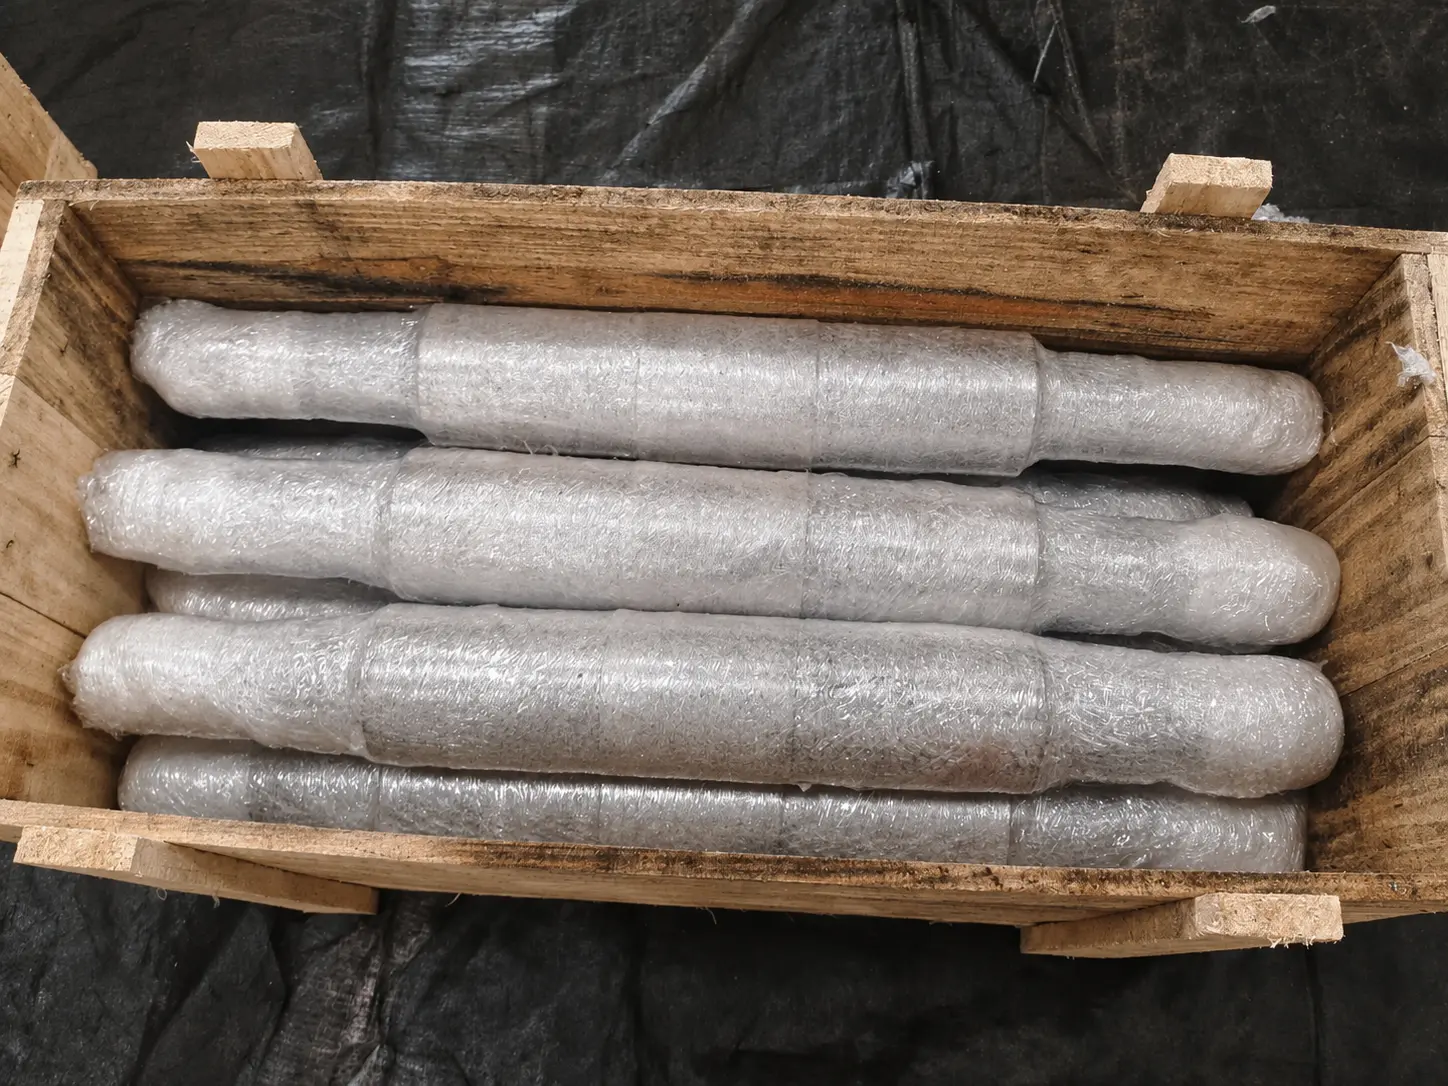
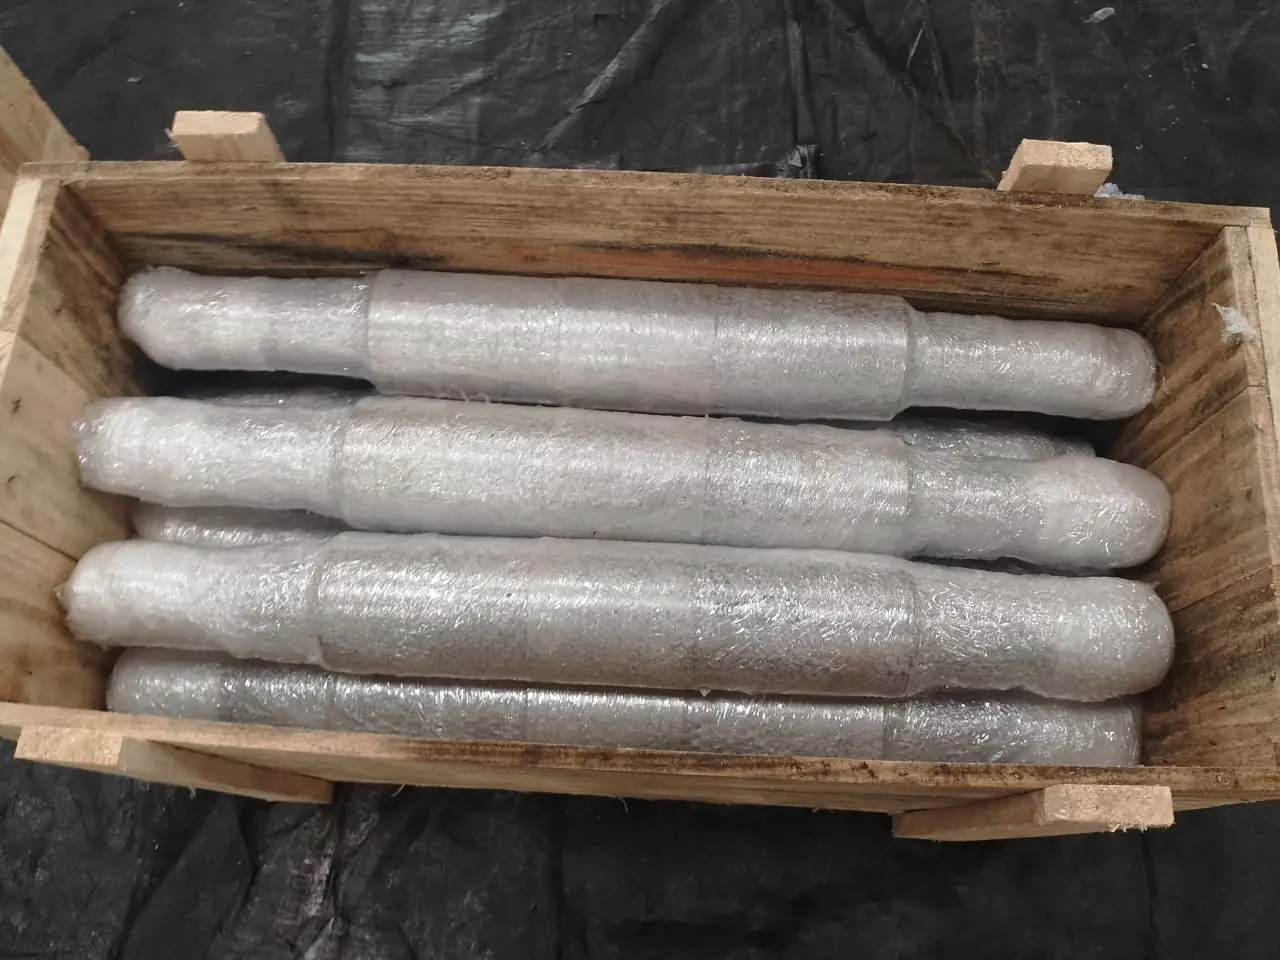
Add Daily Digit with rotating engineering facts

diff --git a/index.html b/index.html
@@ -126,6 +126,92 @@
         font-size: 14px;
         font-weight: 700;
       }
+      .nav-actions {
+        display: flex;
+        align-items: center;
+        gap: 16px;
+      }
+      .daily-digit {
+        position: relative;
+        flex: 0 0 auto;
+      }
+      .daily-digit-button {
+        display: grid;
+        grid-template-columns: auto auto;
+        grid-template-areas: "label number" "hint number";
+        column-gap: 9px;
+        align-items: center;
+        min-width: 105px;
+        min-height: 48px;
+        padding: 7px 10px;
+        border: 1px solid var(--accent);
+        background: #fffaf4;
+        color: var(--ink);
+        cursor: pointer;
+        font: inherit;
+        text-align: left;
+      }
+      .daily-digit-label {
+        grid-area: label;
+        color: var(--accent);
+        font-size: 9px;
+        font-weight: 800;
+        letter-spacing: 0.12em;
+        line-height: 1.1;
+      }
+      .daily-digit-hint {
+        grid-area: hint;
+        color: var(--muted);
+        font-size: 9px;
+        line-height: 1.1;
+      }
+      .daily-digit-number {
+        grid-area: number;
+        font-size: 28px;
+        font-weight: 800;
+        line-height: 1;
+        opacity: 0;
+        transform: translateY(4px);
+        transition: opacity 0.45s ease, transform 0.45s ease;
+      }
+      .daily-digit.ready .daily-digit-number {
+        opacity: 1;
+        transform: translateY(0);
+      }
+      .daily-digit-card {
+        position: absolute;
+        top: calc(100% + 11px);
+        right: 0;
+        width: min(330px, calc(100vw - 40px));
+        padding: 18px;
+        border: 1px solid var(--accent);
+        background: #fff;
+        box-shadow: 0 14px 34px #1112;
+        opacity: 0;
+        visibility: hidden;
+        transform: translateY(-5px);
+        transition: opacity 0.18s ease, transform 0.18s ease,
+          visibility 0.18s;
+      }
+      .daily-digit.open .daily-digit-card {
+        opacity: 1;
+        visibility: visible;
+        transform: translateY(0);
+      }
+      .daily-digit-card strong {
+        display: block;
+        margin-bottom: 5px;
+        color: var(--accent);
+        font-size: 11px;
+        letter-spacing: 0.11em;
+        text-transform: uppercase;
+      }
+      .daily-digit-card p {
+        margin: 0;
+        color: var(--ink);
+        font-size: 14px;
+        line-height: 1.45;
+      }
       .button {
         display: inline-block;
         padding: 12px 20px;
@@ -355,8 +441,16 @@
         font-size: 25px;
       }
       @media (max-width: 760px) {
+        nav {
+          gap: 12px;
+        }
+        .nav-actions {
+          margin-left: auto;
+          gap: 9px;
+        }
         .menu {
           display: block;
+          order: 2;
         }
         .links {
           display: none;
@@ -368,6 +462,23 @@
           padding: 22px;
           flex-direction: column;
           border-bottom: 1px solid var(--line);
+        }
+        .daily-digit-button {
+          min-width: 51px;
+          min-height: 44px;
+          padding: 6px 8px;
+          grid-template-areas: "label number";
+          column-gap: 5px;
+        }
+        .daily-digit-label {
+          max-width: 28px;
+          font-size: 7px;
+        }
+        .daily-digit-hint {
+          display: none;
+        }
+        .daily-digit-number {
+          font-size: 24px;
         }
         .links.open {
           display: flex;
@@ -601,12 +712,25 @@
             src="chill-che-logo.jpg"
             alt="Chill Che logo"
           /><span>CHILL CHE</span></a
-        ><button class="menu" aria-label="Open menu">☰</button>
-        <div class="links">
-          <a href="#capabilities">Capabilities</a
-          ><a href="#products">Products</a><a href="#quality">Quality</a
-          ><a href="#about">About</a
-          ><a class="button" href="#contact">Request a quote</a>
+        ><div class="nav-actions">
+          <div class="links">
+            <a href="#capabilities">Capabilities</a
+            ><a href="#products">Products</a><a href="#quality">Quality</a
+            ><a href="#about">About</a
+            ><a class="button" href="#contact">Request a quote</a>
+          </div>
+          <div class="daily-digit" id="daily-digit">
+            <button class="daily-digit-button" type="button" aria-expanded="false" aria-controls="daily-digit-card" title="Discover today's engineering digit">
+              <span class="daily-digit-label">DAILY DIGIT</span>
+              <span class="daily-digit-hint">Tap for a fact</span>
+              <span class="daily-digit-number" aria-live="polite">–</span>
+            </button>
+            <div class="daily-digit-card" id="daily-digit-card" role="region" aria-label="Daily engineering fact">
+              <strong>Today’s engineering fact</strong>
+              <p></p>
+            </div>
+          </div>
+          <button class="menu" aria-label="Open menu">☰</button>
         </div>
       </nav>
     </header>
@@ -1198,6 +1322,89 @@
         .querySelectorAll(".links a")
         .forEach((a) => (a.onclick = () => l.classList.remove("open")));
       document.getElementById("year").textContent = new Date().getFullYear();
+      const engineeringFacts = [
+        "Helical gears run more quietly than spur gears because their teeth engage gradually.",
+        "A fillet reduces stress concentration by smoothing the transition between two surfaces.",
+        "Bearings reduce friction by replacing sliding contact with rolling contact.",
+        "Heat treatment can change a metal’s hardness without changing its basic shape.",
+        "Surface finish can strongly influence friction, sealing and fatigue life.",
+        "Tolerances define acceptable variation—not a single perfectly exact dimension.",
+        "Shot peening can improve fatigue life by creating compressive stress at a surface.",
+        "A keyway transfers torque but also creates a local stress concentration.",
+        "Hard chrome plating can improve wear resistance and restore a shaft’s working diameter.",
+        "Nitriding hardens a steel surface while generally causing less distortion than quench hardening.",
+        "A datum gives measurements a consistent reference for inspection and assembly.",
+        "Runout combines the effects of roundness, straightness and alignment during rotation.",
+        "Backlash gives mating gear teeth the clearance needed for lubrication and thermal expansion.",
+        "Lubrication separates moving surfaces and helps carry away heat and wear particles.",
+        "Stainless steel resists corrosion because chromium forms a thin passive oxide layer.",
+        "Forging usually improves grain flow compared with machining the same shape from plate.",
+        "Grinding can achieve tighter tolerances and finer finishes than conventional turning.",
+        "Ultrasonic testing uses high-frequency sound waves to detect internal discontinuities.",
+        "Magnetic-particle testing reveals surface and near-surface flaws in ferromagnetic materials.",
+        "Dye-penetrant testing can reveal surface-breaking flaws in many nonporous materials.",
+        "A chamfer removes a sharp edge and can make assembly easier.",
+        "Preload can increase the stiffness and positional accuracy of a bearing arrangement.",
+        "Thermal expansion must be considered when precision assemblies operate across changing temperatures.",
+        "A larger shaft diameter can greatly increase torsional stiffness because diameter has a fourth-power effect.",
+        "Engineering fits control whether mating parts slide freely, locate accurately or lock together.",
+        "Residual stress can remain in a component even when no external load is applied.",
+        "Annealing can soften metal, relieve stress and improve machinability.",
+        "Case hardening combines a wear-resistant surface with a tougher core.",
+        "CNC repeatability describes how closely a machine returns to the same commanded position.",
+        "A surface may look smooth but still require measurement to verify its roughness.",
+        "Gears transmit torque by controlled rolling and sliding contact between shaped teeth.",
+        "A spline can transmit torque while allowing axial movement between connected parts.",
+        "The neutral axis of a bent beam experiences zero longitudinal bending stress.",
+        "Corrosion allowance adds material so a component can lose thickness without losing function.",
+        "Traceability links a finished component back to its material, process and inspection records.",
+        "A go/no-go gauge checks whether a feature stays within its permitted size limits.",
+        "Torque is a turning effect equal to force multiplied by perpendicular distance.",
+        "A flywheel stores rotational energy and helps smooth speed fluctuations.",
+        "Interference fits rely on elastic deformation to hold assembled parts together.",
+        "Designing for manufacturability can reduce cost before the first component is produced.",
+        "A washer spreads a fastener’s load over a larger contact area.",
+        "Fatigue cracks can grow under repeated loads that are below a material’s static strength.",
+        "Balance becomes increasingly important as a rotating component’s operating speed rises.",
+        "A radius at a shaft shoulder can improve fatigue strength when the mating part allows clearance.",
+        "Inspection records turn a manufactured dimension into documented, reviewable evidence."
+      ];
+      const dailyDigit = document.getElementById("daily-digit");
+      const dailyButton = dailyDigit.querySelector("button");
+      const dailyNumber = dailyDigit.querySelector(".daily-digit-number");
+      const dailyFact = dailyDigit.querySelector(".daily-digit-card p");
+      const indiaDate = new Intl.DateTimeFormat("en-CA", {
+        timeZone: "Asia/Kolkata",
+        year: "numeric",
+        month: "2-digit",
+        day: "2-digit"
+      }).format(new Date());
+      const seededHash = (value) => {
+        let hash = 2166136261;
+        for (let i = 0; i < value.length; i++) {
+          hash ^= value.charCodeAt(i);
+          hash = Math.imul(hash, 16777619);
+        }
+        return hash >>> 0;
+      };
+      dailyNumber.textContent = (seededHash(`chill-che-digit-${indiaDate}`) % 9) + 1;
+      dailyFact.textContent = engineeringFacts[seededHash(`chill-che-fact-${indiaDate}`) % engineeringFacts.length];
+      requestAnimationFrame(() => dailyDigit.classList.add("ready"));
+      const closeDailyDigit = () => {
+        dailyDigit.classList.remove("open");
+        dailyButton.setAttribute("aria-expanded", "false");
+      };
+      dailyButton.addEventListener("click", () => {
+        const willOpen = !dailyDigit.classList.contains("open");
+        dailyDigit.classList.toggle("open", willOpen);
+        dailyButton.setAttribute("aria-expanded", String(willOpen));
+      });
+      document.addEventListener("click", (event) => {
+        if (!dailyDigit.contains(event.target)) closeDailyDigit();
+      });
+      document.addEventListener("keydown", (event) => {
+        if (event.key === "Escape") closeDailyDigit();
+      });
       const submitted =
         new URLSearchParams(location.search).get("submitted") === "true";
       if (submitted) {

diff --git a/products.html b/products.html
@@ -90,6 +90,17 @@
         font-size: 14px;
         font-weight: 700;
       }
+      .nav-actions { display: flex; align-items: center; gap: 16px; }
+      .daily-digit { position: relative; flex: 0 0 auto; }
+      .daily-digit-button { display: grid; grid-template-columns: auto auto; grid-template-areas: "label number" "hint number"; column-gap: 9px; align-items: center; min-width: 105px; min-height: 48px; padding: 7px 10px; border: 1px solid var(--accent); background: #fffaf4; color: var(--ink); cursor: pointer; font: inherit; text-align: left; }
+      .daily-digit-label { grid-area: label; color: var(--accent); font-size: 9px; font-weight: 800; letter-spacing: .12em; line-height: 1.1; }
+      .daily-digit-hint { grid-area: hint; color: var(--muted); font-size: 9px; line-height: 1.1; }
+      .daily-digit-number { grid-area: number; font-size: 28px; font-weight: 800; line-height: 1; opacity: 0; transform: translateY(4px); transition: opacity .45s ease, transform .45s ease; }
+      .daily-digit.ready .daily-digit-number { opacity: 1; transform: translateY(0); }
+      .daily-digit-card { position: absolute; top: calc(100% + 11px); right: 0; width: min(330px, calc(100vw - 40px)); padding: 18px; border: 1px solid var(--accent); background: #fff; box-shadow: 0 14px 34px #1112; opacity: 0; visibility: hidden; transform: translateY(-5px); transition: opacity .18s ease, transform .18s ease, visibility .18s; }
+      .daily-digit.open .daily-digit-card { opacity: 1; visibility: visible; transform: translateY(0); }
+      .daily-digit-card strong { display: block; margin-bottom: 5px; color: var(--accent); font-size: 11px; letter-spacing: .11em; text-transform: uppercase; }
+      .daily-digit-card p { margin: 0; color: var(--ink); font-size: 14px; line-height: 1.45; }
       .button {
         display: inline-block;
         padding: 12px 20px;
@@ -240,8 +251,11 @@
         font-size: 25px;
       }
       @media (max-width: 760px) {
+        nav { gap: 12px; }
+        .nav-actions { margin-left: auto; gap: 9px; }
         .menu {
           display: block;
+          order: 2;
         }
         .links {
           display: none;
@@ -256,6 +270,10 @@
         .links.open {
           display: flex;
         }
+        .daily-digit-button { min-width: 51px; min-height: 44px; padding: 6px 8px; grid-template-areas: "label number"; column-gap: 5px; }
+        .daily-digit-label { max-width: 28px; font-size: 7px; }
+        .daily-digit-hint { display: none; }
+        .daily-digit-number { font-size: 24px; }
         .product-grid {
           grid-template-columns: 1fr;
           gap: 28px;
@@ -288,12 +306,18 @@
             src="chill-che-logo.jpg"
             alt="Chill Che logo"
           /><span>CHILL CHE</span></a
-        ><button class="menu" aria-label="Open menu">☰</button>
-        <div class="links">
-          <a href="index.html#capabilities">Capabilities</a
-          ><a href="products.html">Products</a
-          ><a href="index.html#quality">Quality</a
-          ><a class="button" href="index.html#contact">Request a quote</a>
+        ><div class="nav-actions">
+          <div class="links">
+            <a href="index.html#capabilities">Capabilities</a
+            ><a href="products.html">Products</a
+            ><a href="index.html#quality">Quality</a
+            ><a class="button" href="index.html#contact">Request a quote</a>
+          </div>
+          <div class="daily-digit" id="daily-digit">
+            <button class="daily-digit-button" type="button" aria-expanded="false" aria-controls="daily-digit-card" title="Discover today's engineering digit"><span class="daily-digit-label">DAILY DIGIT</span><span class="daily-digit-hint">Tap for a fact</span><span class="daily-digit-number" aria-live="polite">–</span></button>
+            <div class="daily-digit-card" id="daily-digit-card" role="region" aria-label="Daily engineering fact"><strong>Today’s engineering fact</strong><p></p></div>
+          </div>
+          <button class="menu" aria-label="Open menu">☰</button>
         </div>
       </nav>
     </header>
@@ -663,6 +687,17 @@
         .querySelectorAll(".links a")
         .forEach((a) => (a.onclick = () => l.classList.remove("open")));
       document.getElementById("year").textContent = new Date().getFullYear();
+      const engineeringFacts = ["Helical gears run more quietly than spur gears because their teeth engage gradually.","A fillet reduces stress concentration by smoothing the transition between two surfaces.","Bearings reduce friction by replacing sliding contact with rolling contact.","Heat treatment can change a metal’s hardness without changing its basic shape.","Surface finish can strongly influence friction, sealing and fatigue life.","Tolerances define acceptable variation—not a single perfectly exact dimension.","Shot peening can improve fatigue life by creating compressive stress at a surface.","A keyway transfers torque but also creates a local stress concentration.","Hard chrome plating can improve wear resistance and restore a shaft’s working diameter.","Nitriding hardens a steel surface while generally causing less distortion than quench hardening.","A datum gives measurements a consistent reference for inspection and assembly.","Runout combines the effects of roundness, straightness and alignment during rotation.","Backlash gives mating gear teeth the clearance needed for lubrication and thermal expansion.","Lubrication separates moving surfaces and helps carry away heat and wear particles.","Stainless steel resists corrosion because chromium forms a thin passive oxide layer.","Forging usually improves grain flow compared with machining the same shape from plate.","Grinding can achieve tighter tolerances and finer finishes than conventional turning.","Ultrasonic testing uses high-frequency sound waves to detect internal discontinuities.","Magnetic-particle testing reveals surface and near-surface flaws in ferromagnetic materials.","Dye-penetrant testing can reveal surface-breaking flaws in many nonporous materials.","A chamfer removes a sharp edge and can make assembly easier.","Preload can increase the stiffness and positional accuracy of a bearing arrangement.","Thermal expansion must be considered when precision assemblies operate across changing temperatures.","A larger shaft diameter can greatly increase torsional stiffness because diameter has a fourth-power effect.","Engineering fits control whether mating parts slide freely, locate accurately or lock together.","Residual stress can remain in a component even when no external load is applied.","Annealing can soften metal, relieve stress and improve machinability.","Case hardening combines a wear-resistant surface with a tougher core.","CNC repeatability describes how closely a machine returns to the same commanded position.","A surface may look smooth but still require measurement to verify its roughness.","Gears transmit torque by controlled rolling and sliding contact between shaped teeth.","A spline can transmit torque while allowing axial movement between connected parts.","The neutral axis of a bent beam experiences zero longitudinal bending stress.","Corrosion allowance adds material so a component can lose thickness without losing function.","Traceability links a finished component back to its material, process and inspection records.","A go/no-go gauge checks whether a feature stays within its permitted size limits.","Torque is a turning effect equal to force multiplied by perpendicular distance.","A flywheel stores rotational energy and helps smooth speed fluctuations.","Interference fits rely on elastic deformation to hold assembled parts together.","Designing for manufacturability can reduce cost before the first component is produced.","A washer spreads a fastener’s load over a larger contact area.","Fatigue cracks can grow under repeated loads that are below a material’s static strength.","Balance becomes increasingly important as a rotating component’s operating speed rises.","A radius at a shaft shoulder can improve fatigue strength when the mating part allows clearance.","Inspection records turn a manufactured dimension into documented, reviewable evidence."];
+      const dailyDigit = document.getElementById("daily-digit"), dailyButton = dailyDigit.querySelector("button"), dailyNumber = dailyDigit.querySelector(".daily-digit-number"), dailyFact = dailyDigit.querySelector(".daily-digit-card p");
+      const indiaDate = new Intl.DateTimeFormat("en-CA", { timeZone: "Asia/Kolkata", year: "numeric", month: "2-digit", day: "2-digit" }).format(new Date());
+      const seededHash = (value) => { let hash = 2166136261; for (let i = 0; i < value.length; i++) { hash ^= value.charCodeAt(i); hash = Math.imul(hash, 16777619); } return hash >>> 0; };
+      dailyNumber.textContent = (seededHash(`chill-che-digit-${indiaDate}`) % 9) + 1;
+      dailyFact.textContent = engineeringFacts[seededHash(`chill-che-fact-${indiaDate}`) % engineeringFacts.length];
+      requestAnimationFrame(() => dailyDigit.classList.add("ready"));
+      const closeDailyDigit = () => { dailyDigit.classList.remove("open"); dailyButton.setAttribute("aria-expanded", "false"); };
+      dailyButton.addEventListener("click", () => { const willOpen = !dailyDigit.classList.contains("open"); dailyDigit.classList.toggle("open", willOpen); dailyButton.setAttribute("aria-expanded", String(willOpen)); });
+      document.addEventListener("click", (event) => { if (!dailyDigit.contains(event.target)) closeDailyDigit(); });
+      document.addEventListener("keydown", (event) => { if (event.key === "Escape") closeDailyDigit(); });
     </script>
   </body>
 </html>
